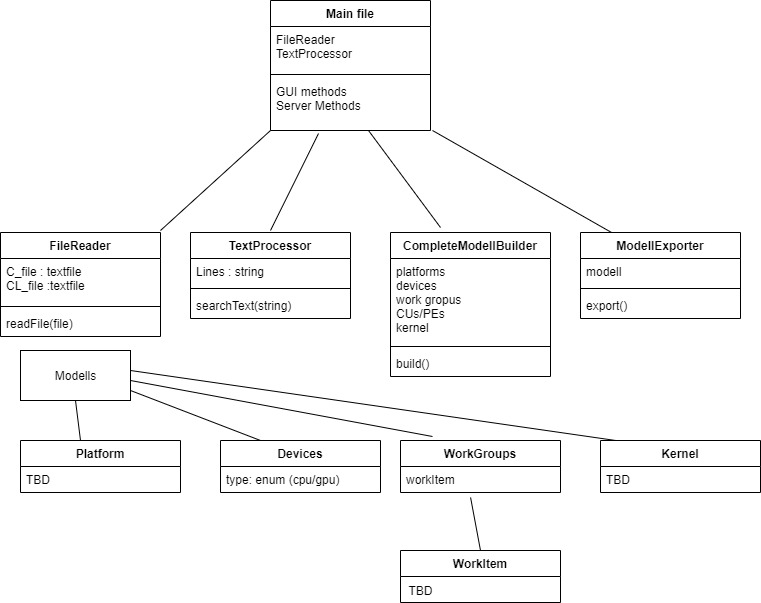
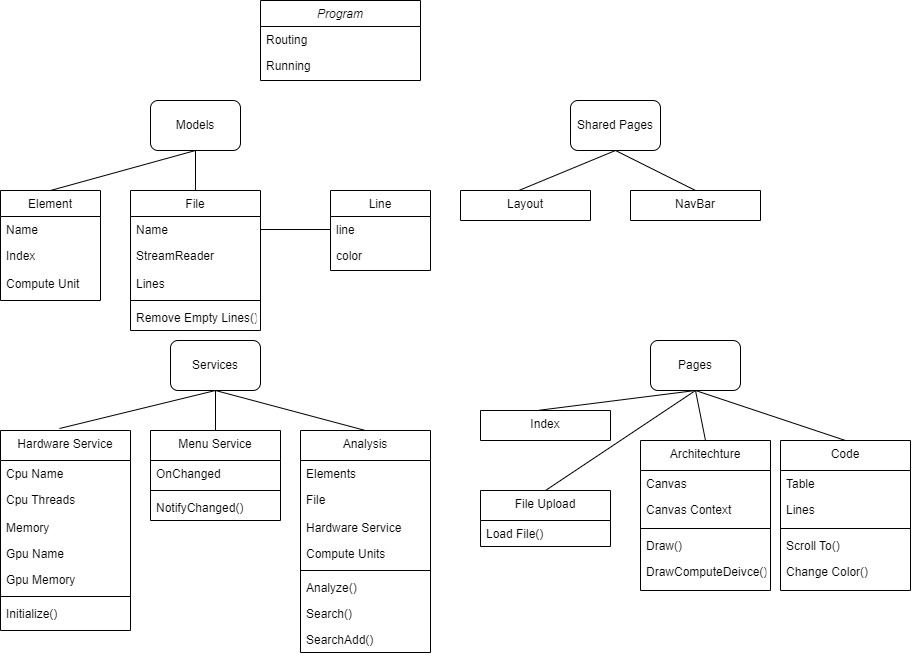
latex progress

diff --git a/Szakdolgozat/Documents/szakdolgozat latex/chapters/4_implementation.tex b/Szakdolgozat/Documents/szakdolgozat latex/chapters/4_implementation.tex
@@ -1,14 +1,19 @@
 \Chapter{Megvalósítás}
 
-%majd kép innen: https://docs.microsoft.com/en-us/aspnet/core/blazor/?view=aspnetcore-6.0#blazor-webassembly
+\begin{figure}[h]
+\centering
+\includegraphics[scale=0.5]{images/blazor.jpg}
+\caption{Blazor Server. Forrás:https://docs.microsoft.com/en-us/aspnet/core/blazor/?view=aspnetcore-6.0}
+\label{fig:blazor}
+\end{figure}
 
 \Section{ASP.NET Core Blazor}
-A megvalósításra felhasznált technológia végül a ASP.NET Core Blazor lett, ami egy .Net keretrendszer komplex, interaktív webalkalmazások létrehozására. Lényege, hogy a weboldalhoz  JavaScript helyett C# kódot írhassunk. Kicsit pontosabban, szinte minden frontend logikához C# kód a megoldás HTML elemek elrendezésétől a weboldal navigálásán át fájlok feltöltéséig.
+A megvalósításra felhasznált technológia végül a ASP.NET Core Blazor lett, ami egy .Net keretrendszer komplex, interaktív webalkalmazások létrehozására. Lényege, hogy a weboldalhoz  JavaScript helyett C\# kódot írhassunk. Kicsit pontosabban, szinte minden frontend logikához C\# kód a megoldás HTML elemek elrendezésétől a weboldal navigálásán át fájlok feltöltéséig.
 
 Jelenleg 2 verziója támogatott, Blazor Server ahol egy szerver alkalmazásban fut a kód, és Blazor WebAssembly, ahol közvetlenül a böngészőben. Ebben a projektben a Blazor Server-t választottam a nagyobb támogatottsága miatt.
 
 \Section{Razor komponensek}
-Blazor alkalmazások jelentős részben Razor komponensekből épülnek fel. Egy komponens az UI egy önálló része, ami tartalmazhat feldolgozó logikát hogy dinamikusan viselkedhessen. Komponenseket lehet többször felhasználni, egymásba ágyazni, vagy Razor oldalakban felhasználni (egy komponens akár önmagában is lehet Razor oldal). Egy Razor komponens tartalmaz HTML elemeket és @ jellel ellátott C# kifejezéseket, amik lehetnek direktívák, logikák, vagy akár komplex kód részek is.
+Blazor alkalmazások jelentős részben Razor komponensekből épülnek fel. Egy komponens az UI egy önálló része, ami tartalmazhat feldolgozó logikát hogy dinamikusan viselkedhessen. Komponenseket lehet többször felhasználni, egymásba ágyazni, vagy Razor oldalakban felhasználni (egy komponens akár önmagában is lehet Razor oldal). Egy Razor komponens tartalmaz HTML elemeket és @ jellel ellátott C\# kifejezéseket, amik lehetnek direktívák, logikák, vagy akár komplex kód részek is.
 
 \Section{Routing, SignalR, and Dependency Injection}
 Routing, azaz útvonal választás az a folyamat, ahogy a szerver a bejövő HTTP kéréseket az alkalmazás végrehajtható végpontjaihoz párosítja. Az ASP.Net ezt szinte automatikusan teszi meg, a megfelelő kérést a megfelelő Razor oldalra irányítja, miután megadjuk neki a kellő feltérképezési beállítást. 
@@ -26,51 +31,62 @@ Ez az alkalmazás főleg Singleton-okat használ szolgáltatások biztosításá
 \Section{Hardware Service}
 A .NET Core hivatalosan egy multiplatform alkalmazás, de sajnos még vannak olyan részei amik jelenleg még csak a Windows-t támogatják. A Hardware elemzésére a hivatalosan támogatott módszer a WMI (Windows Management Instrumentation) használata, nevéből adódóan jelenleg csak Windows-on elérhető, ezért más operációs rendszerek esetében az alkalmazás hamis, kitalált adatokkal dolgozik, amíg a Microsoft ki nem terjeszti a támogatását Linuxra és társaira.
 
+\Section{Navigation Menu}
+Az alkalmazásban a navigáció különböző oldalak között az oldalsó navigációs menün keresztül történik. Ennek az az érdekessége, hogy a menüpontok csak akkor jelennek meg, ha tartalmuk készen áll. Itt olyan probléma merült fel, hogy a menü nem frissül magától, ezért be kellett iktatni egy új szolgáltatót, a MenuService-t. A MenuService feladata egy esemény kezelése. Ha a programban olyan változás történik ami hatással van a menüre, a szolgáltatás meghívja az eseményt, amit a menü már észlelni tud és lereagálja. 
 
+\Section{Architeture oldal}
+Az Architecture oldal fő és egyetlen eleme egy Canvas, pontosabban egy Blazor Extension Canvas, ami azért előnyös mert könnyen manipulálható C\# kóddal. Ez a komponens miután létrehozza a Canvas-t, megrajzolja a Hardware Service által szolgáltatott adatokat, mint a fizikai memória, CPU, GPU. Az egyszerűség kedvéért fix méretű Canvas-al dolgozik, így pixel pontosan meg tudja rajzolni az entitásokat és a kapcsolatokat. A használt eszközöket zöld színnel jelzi.
 
+\Section{Analysis}
+Ez az egyik fő alkotóeleme a programnak, itt megvizsgáljuk a beolvasott fájlt, és sorról sorra végigmegyünk rajta OpenCL elemeket kutatva. 
 
+Első lépésben megvizsgálja hogy a program CPU-nak vagy GPU-n fut-e és ez alapján megállapítja a megfelelő Compute Unit mennyiséget, ami processzor esetén a logikai szálakkal egyenértékű. Viszont videokártya esetén ez egy sokkal összetettebb probléma, nem lehet ilyen egyszerűen megmondani a számítási egységek mennyiségét. Például egy Nvidia 1080 videókártyában 2560 shading unit,160 texture mapping unit, és 64 ROP egység található. Ez egyrészt nem látható a WMI számára, másrészt ebből kikövetkezthetetlen a tényleges OpenCL számítási egységek száma. És ettől csak bonyolultabb esetek vannak, lehetnek CUDA magok vagy Tensor magok is, lehet integrált videókártya ami bizonyos erőforrásokon a processzorral osztozik, más gyártású, például AMD videókártyák pedig teljesen más felépítésűek is lehetnek. Ha sikerülne is megállapítani a számítási egységek számát, 3000+ számítási szálat nem lehet jól vizualizálni, ezért videókártya esetén az ábrázolás céljából a program egy kitalált 4 számítási egységgel fog dolgozni.
 
+Második lépésben összegyűjti az OpenCL elemeket egy listában és megadja a hozzájuk tartozó számítási egység számát. Ez lehet:
+\begin{itemize}
+\item\textbf{0} , ami azt jelenti hogy egy szálon fut szekvenciálisan,
+\item\textbf{1,2,3.....} , ami a hozzá tartozó tényleges számítási egység száma,
+\item\textbf{-1} , ami azt jelöli hogy az összes elérhető számítási egységen párhuzamosan történik.
+\end{itemize}
 
-Ez a fejezet mutatja be a megvalósítás lépéseit.
-Itt lehet az esetlegesen előforduló technikai nehézségeket említeni.
-Be lehet már mutatni a program elkészült részeit.
+\Section{Code oldal}
+Ez a második megjelenítő felület. 2 egymás mellett lévő konténerből épül fel.
+A baloldali konténerben egy dinamikus táblázat foglal helyet ami a már elemzett objektumokat jeleníti meg Gannt diagram formában. A diagram bal oldalán a végrehajtás lépésének indexe, tetején pedig a számítási egységek sorszámai szerepelnek, plusz a 0-s oszlop ami a szekvenciális futást jelzi. A diagram a számítási egységeknek megfelelően az oldal betöltésekor dinamikusan töltődik fel elemekkel. A diagram elemi html gombok, amik tartalmazzák az elemek neveit, valamint a megfelelő funkciókat. Szükséges a ciklusváltozó "elfogása" az ii változó által, ellenkező esetben a függvények mindannyian az alap ciklusváltozó végső értékét fogják használni.
 
-Meg lehet mutatni az elkészített programkód érdekesebb részeit.
-(Az érdekesebb részek bemutatására kellene szorítkozni.
-Többségében a szöveges leírásnak kellene benne lennie.
-Abból lehet kiindulni, hogy a forráskód a dolgozathoz elérhető, azt nem kell magába a dolgozatba bemásolni, elegendő csak behivatkozni.)
-
-A dolgozatban szereplő forráskódrészletekhez külön vannak programnyelvenként stílusok.
-Python esetében például így néz ki egy formázott kódrészlet.
-\begin{python}
-import sys
-
-if __name__ == '__main__':
-    pass
-\end{python}
-
-A stílusfájlok a \texttt{styles} jegyzékben találhatók.
-A stílusok között szerepel még C++, Java és Rust stílusfájl.
-Ezek használatához a \texttt{dolgozat.tex} fájl elején \texttt{usepackage} paranccsal hozzá kell adni a stílust, majd a stílusfájl nevével megegyező környezetet lehet használni.
-További példaként C++ forráskód esetében ez így szerepel.
 \begin{cpp}
-#include <iostream>
-
-class Sample : public Object
-{
-    // An empty class definition
-}
+@for(int i = 0; i < Analyzer.myElements.Count; i++)
+ {
+   int ii = i;
+   <tr>
+      <td>@(i+1)</td>
+      @for(int j = 0; j < Analyzer.CUs+1; j++)
+        {
+          <td style="min-width:50px">
+          @if (j==Analyzer.myElements[ii].ComputeUnit | (j!=0 &
+               -1==Analyzer.myElements[ii].ComputeUnit))
+             {
+                <button title=@Analyzer.myElements[ii].Name @onclick="()
+                =>{ChangeColor(Analyzer.myElements[ii].Index);ScrollTo
+                Analyzer.myElements[ii].Index);}">@(i+1)</button>
+             }
+          </td>
+        }
+   </tr>
+ }
 \end{cpp}
-Stílusfájlokból elegendő csak annyit meghagyni, amennyire a dolgozatban szükség van.
-Más, C szintaktikájú nyelvekhez (mint például a JavaScript és C\#) a Java vagy C++ stílusfájlok átszerkesztésére van szükség.
-(Elegendő lehet csak a fájlnevet átírni, és a fájlban a környezet nevét.)
 
-Nyers adatok, parancssori kimenetek megjelenítéséhez a \texttt{verbatim} környezetet lehet használni.
-\begin{verbatim}
-$ some commands with arguments
-1 2 3 4 5
-$ _
-\end{verbatim}
 
-A kutatás jellegű témáknál ez a fejezet gyakorlatilag kimaradhat.
-Helyette inkább a fő vizsgálati módszerek, kutatási irányok kaphatnak külön-külön fejezeteket.
+A második konténerben, vagyis az oldal jobb oldalán magát a forráskódot jelenítjük meg sorokra osztva, az üres sorokat még a feldolgozás közben eltávolítva. Minden sor külön paragrafus elem, id-val ellátva, hogy lehessen rájuk hivatkozni. Itt lesz szerepe a Gannt diagram gombjainak. Egy gomb megnyomásakor a hozzá tartozó elem színe zöldre, a többi pedig fehérre vált. Ez a fent említett SignalR-en keresztül zajlik, majd ugyanitt frissül az oldal és a megfelelő kódsor paragrafusa ténylegesen zöldre vált. Emellett a böngésző a megfelelő helyre is teker, ami JavaScript-et igényel. A program ekkor JavaScript Interop használatával meghív egy JS függvényt ami elvégzi a kérést.
+
+\begin{cpp}
+jsRuntime.InvokeAsync<bool>("test","line{" + (i-8) + "}");
+\end{cpp}
+
+
+%\begin{verbatim}
+%$ some commands with arguments
+%1 2 3 4 5
+%$ _
+%\end{verbatim}
+
+

diff --git a/Szakdolgozat/Documents/szakdolgozat latex/chapters/3_design.tex b/Szakdolgozat/Documents/szakdolgozat latex/chapters/3_design.tex
@@ -7,10 +7,10 @@ Mivel a hardveres futás szimuláció kicsit bonyolult, ezért azt elvetve marad
 
  Az OpenCl működésének ismeretével lehetséges lehet olyan alkalmazást létrehozni, ami a forráskódban felismeri az OpenCL elemeit, és helyesen megtippeli hogy azok mit csinálnának. Így felépíthető lenne egy modell az adott OpenCL program működéséről amit már csak megjeleníteni szükséges.
  
-\Section{Triviális elemek}
-Az OpenCL programok egy jelenntős része a házigazda programban történik, aminek nagyon sok kötelező eleme van, mint például a platformok keresése. Feltételezhetjük, hogy ezek a triviális elemek az analizálandó programban is megtalálhatóak, tehát nincs szükség feleslegesen erőforrásokat pazarolni a megkeresésükre. Viszont néhánynál szükség lehet megnézni, hogy milyen argumentumaik vannak, illetve hány darab van belőlük. Ekkor a házigazda program nagy része már modellezve is van.
+\Section{Gazdaprogram elemei}
+Az OpenCL programok egy jelentős része a házigazda programban történik, aminek nagyon sok kötelező eleme van, mint például a platformok keresése. Ezeket a program megkeresi és feljegyzi, hogy majd később megjeleníthesse őket. Legnagyobb részük 1 szálon szekvenciálisan fut, és OpenCL elemekkel dolgoznak, mint pédául DeviceID-kkal vagy OpenCL platformokkal. Elemzési teendő így nem nagyon van. Ekkor a házigazda program nagy része már modellezve is van.
 
-Triviális elemeknek tekinthetők a platform, memóriák felszabadítása, kernel létrehozás, OpenCL program készítése, parancs sor készítése, környezet létrehozása, egyebek.
+Ilyen elemek lehetnek a platform, memóriák felszabadítása, kernel létrehozás, OpenCL program készítése, parancs sor készítése, környezet létrehozása, egyebek.
 
 
 
@@ -31,71 +31,71 @@ Egy fontosabb részlete az elemzésnek a munka elemek számának megállapítás
 
 A program működése a következő:
 
-Beolvassuk a forrásokat, lehetőleg valamilyen grafikus felületen át, majd feldolgozzuk először a házigazda forrásfájlt. Megkeressük benne az OpenCl függvényeket, és szükségszerűen modelleket rendelünk melléjük, például a \texttt{clCreateKernel} metódust észlelve létrehozunk egy Kernel objektumot. Ha ezzel készen vagyunk összeállítjuk őket egy teljes modellé, amit exportálunk a frontend felé.
+A webalkalmazáson át feltöltünk egy forrásfájlt, majd a szerver a fájlt beolvassa soronként. Megvizsgálja hogy a forrásfájl milyen OpenCL eszközöket használ, hány munka elem van benne, stb. A szerver ezután lekéri a számítógép architektúráját. Következő lépésben a webalkalmazás megrajzolja a számítógép ide vonatkozó Hardware elemeit, mint a rendelkezésre álló memória, a processzor adatai, a videókártya adatai, valamint felvázolja hogy az architektúrát milyen módon használná az OpenCL program. A szerver megkeresi a forrásfájlban az OpenCL függvényeket, és szükségszerűen modelleket rendell hozzájuk, vagyis megfelelő objektumokat hoz létre, például a \texttt{clCreateKernel} metódust észlelve létrehozunk egy Kernel objektumot.Ilyenkor azt is megállapítja, hogy az adott elem melyik Compute Unit-hoz tartozik. Ha ez sikeres, a webalkalmazás egy Gantt diagramban vizualizálja a program futtatását az idő függvényében. A webalkalmazás ezzel szinkronban megjeleníti magát a forráskódot is, és bármely Gantt diagrambeli elemre kattintva kiemeli a megfelelő kódot.
 
-\Section{Táblázatok}
+°%\Section{Táblázatok}
 
-Táblázatokhoz a \texttt{table} környezetet ajánlott használni.
-Erre egy minta \aref{tab:minta}. táblázat.
-A hivatkozáshoz az egyedi \texttt{label} értéke konvenció szerint \texttt{tab:} prefixszel kezdődik.
+%Táblázatokhoz a \texttt{table} környezetet ajánlott használni.
+%Erre egy minta \aref{tab:minta}. táblázat.
+%A hivatkozáshoz az egyedi \texttt{label} értéke konvenció szerint \texttt{tab:} prefixszel kezdődik.
 
-\begin{table}[h]
-\centering
-\caption{Minta táblázat. A táblázat felirata a táblázat felett kell legyen!}
-\label{tab:minta}
-\begin{tabular}{l|c|c|}
-a & b & c \\
-\hline
-1 & 2 & 3 \\
-4 & 5 & 6 \\
-\hline
-\end{tabular}
-\end{table}
+%\begin{table}[h]
+%\centering
+%\caption{Minta táblázat. A táblázat felirata a táblázat felett kell legyen!}
+%\label{tab:minta}
+%\begin{tabular}{l|c|c|}
+%a & b & c \\
+%\hline
+%1 & 2 & 3 \\
+%4 & 5 & 6 \\
+%\hline
+%\end{tabular}
+%\end{table}
 
-\Section{Ábrák}
+%\Section{Ábrák}
 
-Ábrákat a \texttt{figure} környezettel lehet használni.
-A használatára egy példa \aref{fig:cimer}. ábrán látható.
-Az \texttt{includegraphics} parancsba 
-Az ábrák felirata az ábra alatt kell legyen.
-Az ábrák hivatkozásához használt nevet konvenció szerint \texttt{fig:}-el célszerű kezdeni.
+%Ábrákat a \texttt{figure} környezettel lehet használni.
+%A használatára egy példa \aref{fig:cimer}. ábrán látható.
+%Az \texttt{includegraphics} parancsba 
+%Az ábrák felirata az ábra alatt kell legyen.
+%Az ábrák hivatkozásához használt nevet konvenció szerint \texttt{fig:}-el célszerű kezdeni.
 
-\begin{figure}[h]
-\centering
-\includegraphics[scale=0.3]{images/me_logo.png}
-\caption{A Miskolci Egyetem címere.}
-\label{fig:cimer}
-\end{figure}
+%\begin{figure}[h]
+%\centering
+%\includegraphics[scale=0.3]{images/me_logo.png}
+%\caption{A Miskolci Egyetem címere.}
+%\label{fig:cimer}
+%\end{figure}
 
-\Section{További környezetek}
+%\Section{További környezetek}
 
-A matematikai témájú dolgozatokban szükség lehet tételek és bizonyításaik megadására.
-Ehhez szintén vannak készen elérhető környezetek.
+%A matematikai témájú dolgozatokban szükség lehet tételek és bizonyításaik megadására.
+%Ehhez szintén vannak készen elérhető környezetek.
 
-\begin{definition}
-Ez egy definíció
-\end{definition}
+%\begin{definition}
+%Ez egy definíció
+%\end{definition}
 
-\begin{lemma}
-Ez egy lemma
-\end{lemma}
+%\begin{lemma}
+%Ez egy lemma
+%\end{lemma}
 
-\begin{theorem}
-Ez egy tétel
-\end{theorem}
+%\begin{theorem}
+%Ez egy tétel
+%\end{theorem}
 
-\begin{proof}
-Ez egy bizonyítás
-\end{proof}
+%\begin{proof}
+%Ez egy bizonyítás
+%\end{proof}
 
-\begin{corollary}
-Ez egy tétel
-\end{corollary}
+%\begin{corollary}
+%Ez egy tétel
+%\end{corollary}
 
-\begin{remark}
-Ez egy megjegyzés
-\end{remark}
+%\begin{remark}
+%Ez egy megjegyzés
+%\end{remark}
 
-\begin{example}
-Ez egy példa
-\end{example}
+%\begin{example}
+%Ez egy példa
+%\end{example}

diff --git a/Szakdolgozat/Documents/szakdolgozat latex/chapters/5_test.tex b/Szakdolgozat/Documents/szakdolgozat latex/chapters/5_test.tex
@@ -1,11 +1,11 @@
 \Chapter{Tesztelés}
 
-A fejezetben be kell mutatni, hogy az elkészült alkalmazás hogyan használható.
-(Az, hogy hogyan kell, hogy működjön, és hogy hogy lett elkészítve, az előző fejezetekben már megtörtént.)
+\Section{Használat}
+A program használata egyszerű. Futtatás után a weboldalon kiválasztjuk a feldolgozandó fájlt. Innentől a program automatikusan működik. Ezután ki lehet választani a menüsávban a kívánt menüpontokat, amik átirányítanak a megfelelő oldalakra. Az első menüpont az architektúra, a második a kód oldal. A kezdőoldalra a Szakdolgozatra kattintva lehet visszajutni. A kód oldalon a Gannt diagram elemeire kattintva lehet az egyes kódsorokat jobban megvizsgálni.
 
-Jellemzően az alábbi dolgok kerülhetnek ide.
-\begin{itemize}
-\item Tesztfuttatások. Le lehet írni a futási időket, memória és tárigényt.
-\item Felhasználói kézikönyv jellegű leírás. Kifejezetten a végfelhasználó szempontjából lehet azt bemutatni, hogy mit hogy lehet majd használni.
-\item Kutatás kapcsán ide főként táblázatok, görbék és egyéb részletes összesítések kerülhetnek.
-\end{itemize}
+\Section{Tesztek}
+A program az indulást követően szinte valós idejű, a hardware szolgáltatásokra kell esetekben várni 1-2 másodpercet. Memória igénye felső korlátja 110MB, tárhely igény 1,8 MB.
+
+Ide majd képernyőképek is kerülnek.
+
+
